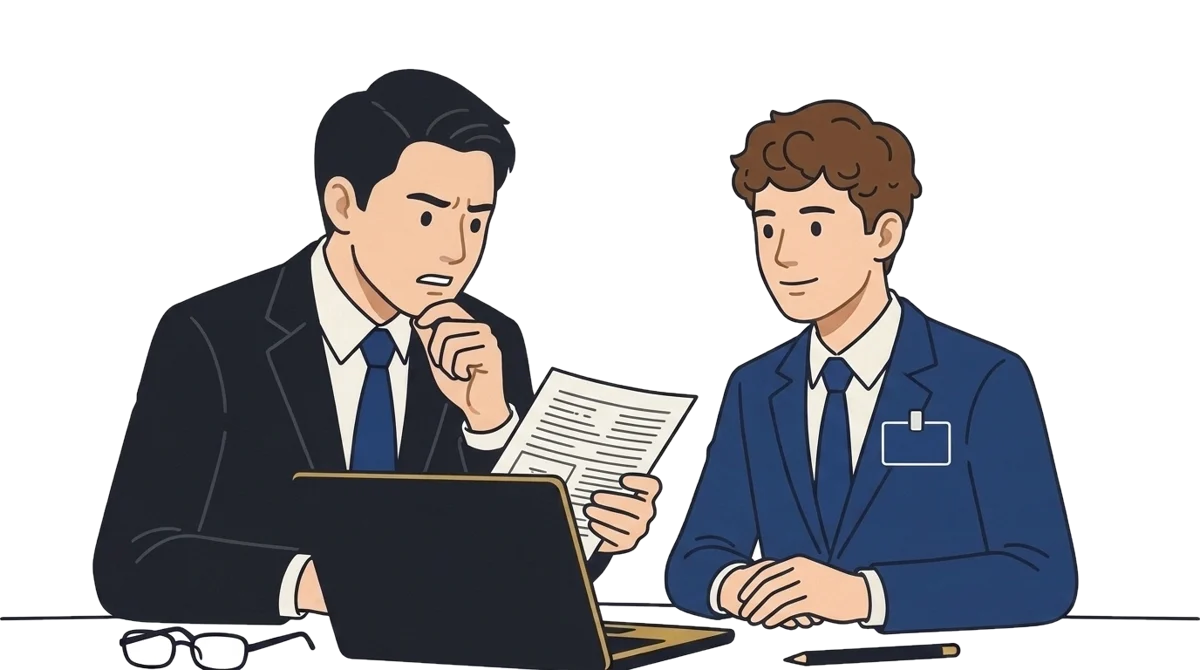
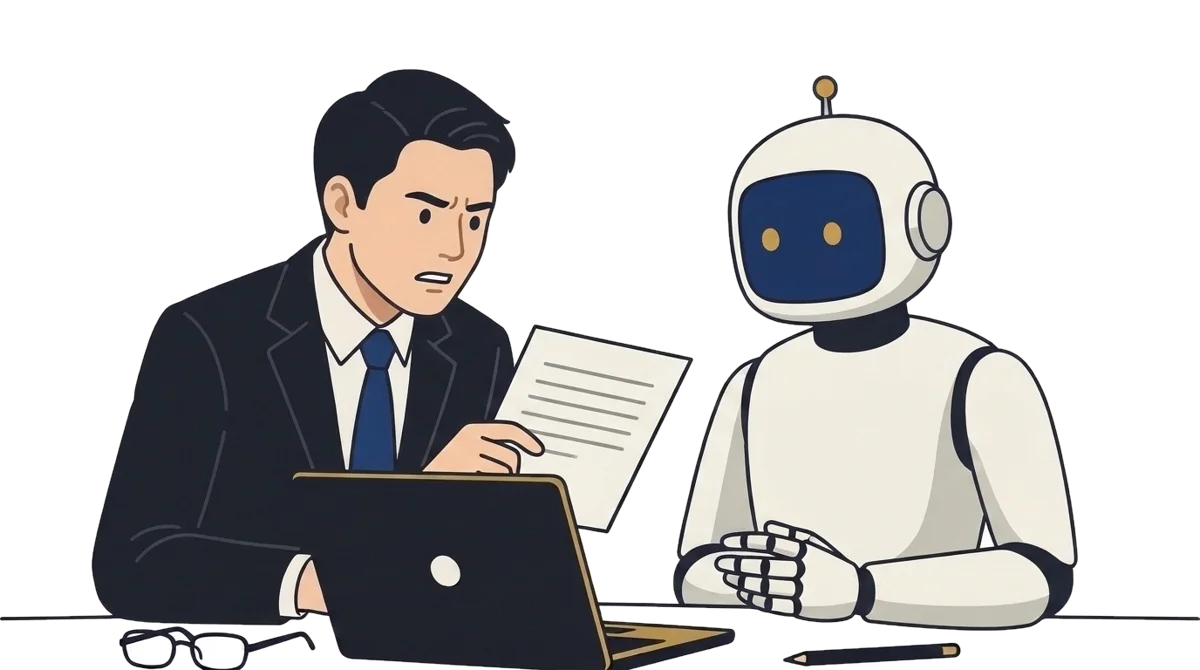
トップ：進め方は絵を止め、01→04の数字が順に跳ねて灯る動きに。4コマの壁打ち相手を、ひと目でAIと分かる同じキャラに（前日は笑顔・翌日は覚えていない無表情）（ブランチ・未公開）
本人 2026-11-07「イラストは動かさない。動かすのはここなら010203の数字」「壁打ち相手のAIがAIっぽくないし女と男でイラスト変っちゃってる」

diff --git a/index.html b/index.html
@@ -341,12 +341,13 @@
 .tz-btn:hover{background:var(--hot-2);transform:translateY(-1px)}
 .tz-link{color:var(--tz-txt);font-size:.9375rem;border-bottom:1px solid var(--tz-line2);padding-bottom:2px}
 .tz-link:hover{border-bottom-color:var(--tz-txt)}
-@keyframes fuwa{0%,50%,100%{transform:translateY(0) rotate(0)}25%{transform:translateY(-4px) rotate(-6deg)}75%{transform:translateY(-2px) rotate(5deg)}}
-.steps4 .step img{animation:fuwa 2.4s ease-in-out infinite;transform-origin:50% 60%}
-.steps4 .step:nth-child(2) img{animation-delay:.6s}
-.steps4 .step:nth-child(3) img{animation-delay:1.2s}
-.steps4 .step:nth-child(4) img{animation-delay:1.8s}
-@media(prefers-reduced-motion:reduce){.steps4 .step img{animation:none}}
+/* 絵は動かさず、01→04の数字が順に跳ねて灯る（本人 2026-11-07「イラストは動かさない。動かすのは数字」） */
+@keyframes stepnum{0%,22%,100%{transform:translateY(0) scale(1);background:var(--accent)}8%{transform:translateY(-6px) scale(1.14);background:var(--hot)}16%{transform:translateY(0) scale(1);background:var(--hot)}}
+.steps4 .step .n{animation:stepnum 4.8s ease-in-out infinite}
+.steps4 .step:nth-child(2) .n{animation-delay:1.2s}
+.steps4 .step:nth-child(3) .n{animation-delay:2.4s}
+.steps4 .step:nth-child(4) .n{animation-delay:3.6s}
+@media(prefers-reduced-motion:reduce){.steps4 .step .n{animation:none}}
 .why-turn{height:1px;background:var(--border);max-width:1080px;margin:88px auto 72px}
 .why-h{font-size:var(--fs-h2)}
 .steps4{display:grid;grid-template-columns:repeat(4,1fr);gap:18px;max-width:1100px;margin:0 auto;list-style:none;padding:0}
